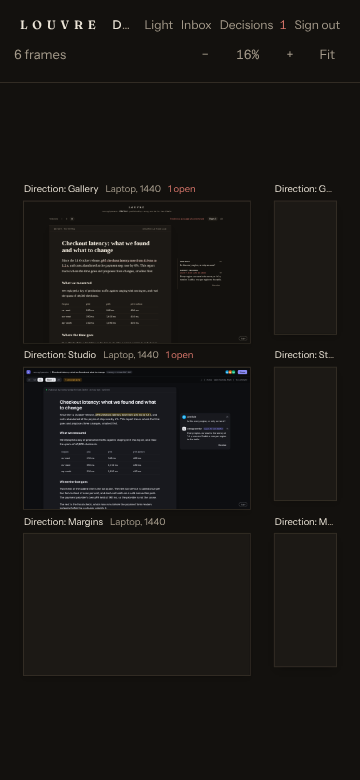
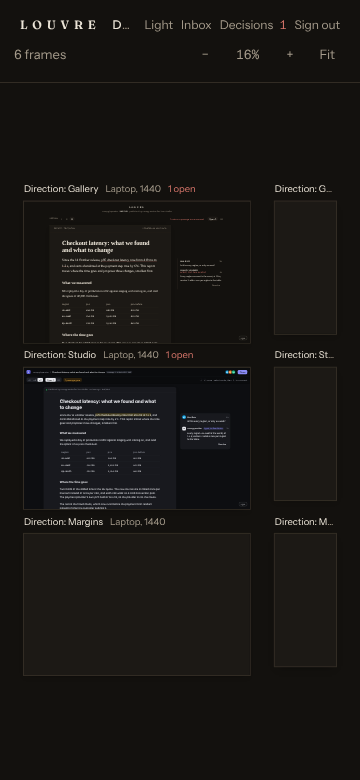
fix(ui): on a phone, draw the pages nearest the middle of the screen, not the top left's
Claude-Session: https://claude.ai/code/session_014PF8DfPt8H9qEg5Yn8eviL

diff --git a/ui/src/lib/canvas.ts b/ui/src/lib/canvas.ts
@@ -87,19 +87,24 @@ export function panBy(view: View, dx: number, dy: number): View {
 }
 
 /**
- * The boxes whose pages are drawn live at a view, on a screen `width` by `height`: on a phone's, the LIVE_COUNT the
- * screen shows the most of, the most shown first and the board's order between equals; on any other, every one.
+ * The boxes whose pages are drawn live at a view, on a screen `width` by `height`: on a phone's, the LIVE_COUNT on it
+ * nearest its middle, where the reader looks, the nearest first and the board's order between equals; on any other,
+ * every one.
  */
 export function live<T extends Box>(boxes: readonly T[], view: View, width: number, height: number): T[] {
     if (Math.min(width, height) > PHONE) {
         return [...boxes]
     }
+    const middle = { x: width / 2, y: height / 2 }
     return (
         boxes
-            // Rounded, so frames the screen shows alike keep the board's order rather than a rounding error's.
-            .map((box) => ({ box, shown: Math.round(shownArea(box, view, width, height)) }))
+            .map((box) => {
+                const drawn = onScreen(box, view)
+                return { box, shown: shownArea(drawn, width, height), away: distance(drawn, middle) }
+            })
             .filter(({ shown }) => shown > 0)
-            .toSorted((a, b) => b.shown - a.shown)
+            // Rounded, so frames as near keep the board's order rather than a rounding error's.
+            .toSorted((a, b) => Math.round(a.away) - Math.round(b.away))
             .slice(0, LIVE_COUNT)
             .map(({ box }) => box)
     )
@@ -112,13 +117,30 @@ export function wheelFactor(deltaY: number, deltaMode: number, ctrlKey: boolean)
     return Math.exp(-pixels * (ctrlKey ? 0.01 : 0.002))
 }
 
-/** How much of a box is on a screen `width` by `height` at a view, in screen pixels. */
-function shownArea(box: Box, view: View, width: number, height: number): number {
-    const left = Math.max(view.x + box.x * view.scale, 0)
-    const right = Math.min(view.x + (box.x + box.width) * view.scale, width)
-    const top = Math.max(view.y + box.y * view.scale, 0)
-    const bottom = Math.min(view.y + (box.y + box.height) * view.scale, height)
+/** Where a box on the canvas is on the screen at a view. */
+function onScreen(box: Box, view: View): Box {
+    return {
+        x: view.x + box.x * view.scale,
+        y: view.y + box.y * view.scale,
+        width: box.width * view.scale,
+        height: box.height * view.scale,
+    }
+}
+
+/** How much of a box on the screen is on a screen `width` by `height`, in screen pixels. */
+function shownArea(box: Box, width: number, height: number): number {
+    const left = Math.max(box.x, 0)
+    const right = Math.min(box.x + box.width, width)
+    const top = Math.max(box.y, 0)
+    const bottom = Math.min(box.y + box.height, height)
     return Math.max(right - left, 0) * Math.max(bottom - top, 0)
+}
+
+/** How far a point is from the nearest point of a box: none for a point inside it. */
+function distance(box: Box, point: Point): number {
+    const dx = Math.max(box.x - point.x, 0, point.x - (box.x + box.width))
+    const dy = Math.max(box.y - point.y, 0, point.y - (box.y + box.height))
+    return Math.hypot(dx, dy)
 }
 
 function clamp(scale: number): number {

diff --git a/ui/src/lib/canvas.test.ts b/ui/src/lib/canvas.test.ts
@@ -86,15 +86,24 @@ describe('live', () => {
         expect(ids(live(frames, { x: 0, y: 0, scale: 0.2 }, 1440, 780))).toEqual(ids(frames))
     })
 
-    it('draws two pages on a phone with the board fitted to it: of the laptops it shows whole, the first two', () => {
-        expect(ids(live(frames, fit(bounds(frames, 80), 390, 700, 24), 390, 700))).toEqual(['laptop-0', 'laptop-1'])
+    it('draws two pages on a phone with the board fitted to it: the middle laptop, then the nearest to it', () => {
+        expect(ids(live(frames, fit(bounds(frames, 80), 390, 700, 24), 390, 700))).toEqual(['laptop-1', 'laptop-0'])
     })
 
-    it('draws two pages at most on a phone, those it shows the most of first', () => {
-        // All six show in part; the second row's phone the most, then the first row's.
+    it('draws two pages at most on a phone, those nearest the middle of the screen first', () => {
+        // All six show in part. The second row's phone holds the middle; its laptop is nearer it than the first row's
+        // phone, though the screen shows less of it.
         const shown = live(frames, { x: -440, y: -150, scale: 0.34 }, 390, 700)
 
-        expect(ids(shown)).toEqual(['phone-1', 'phone-0'])
+        expect(ids(shown)).toEqual(['phone-1', 'laptop-1'])
+    })
+
+    it('keeps the order of the board between frames as near the middle', () => {
+        // The middle falls between the first two rows' laptops, as far from each.
+        expect(ids(live(frames, { x: -60, y: 350 - 980 * 0.25, scale: 0.25 }, 390, 700))).toEqual([
+            'laptop-0',
+            'laptop-1',
+        ])
     })
 
     it('counts a phone on its side as a phone', () => {

diff --git a/tests/louvre/web/test_flows.py b/tests/louvre/web/test_flows.py
@@ -546,8 +546,8 @@ def test_on_a_tablet_a_pinch_puts_the_pages_away_until_it_stops_without_reloadin
         context.close()
 
 
-def test_on_a_phone_a_board_draws_the_two_pages_it_shows_most_of(browser: Browser, live_app: str) -> None:
-    """On a phone, fitted or zoomed in, a board draws the pages it shows the most of, two at most.
+def test_on_a_phone_a_board_draws_the_two_pages_nearest_its_middle(browser: Browser, live_app: str) -> None:
+    """On a phone, fitted or zoomed in, a board draws the pages nearest the middle of the screen, two at most.
 
     Six pages at once are more than a phone's browser has the memory for: it crashed as the board loaded. Drawing none
     until the reader zoomed in left a fitted board blank.

diff --git a/ui/DESIGN.md b/ui/DESIGN.md
@@ -137,8 +137,8 @@ but the canvas, to the screen's edges, under one hairline.
   size in `muted`, its open threads in `accent`. Labels and outlines keep one size on the screen at any zoom, and a
   label never runs past its frame's width: what does not fit ends in an ellipsis.
 - **On a phone** (600 px and below on the screen's shorter side), two frames' pages are drawn at most, at any zoom:
-  those the screen shows the most of. Six pages at once are more than a phone has the memory for. The rest show their
-  sheets and labels, and a frame's page fills in as the reader pans or zooms to it.
+  those nearest the middle of the screen, where the reader looks. Six pages at once are more than a phone has the
+  memory for. The rest show their sheets and labels, and a frame's page fills in as the reader pans or zooms to it.
 - **Moving.** Drag to pan, by pointer or by touch; pinch, the wheel, or the toolbar's zoom control (`−`, the zoom in
   percent, `+`, Fit) to zoom, about the cursor or the pinch's middle, from 5% to 100%: a frame's page at its own size,
   as a reader opens the frame to read it closer. The board opens fitted to the screen, and fits again on a resize until
